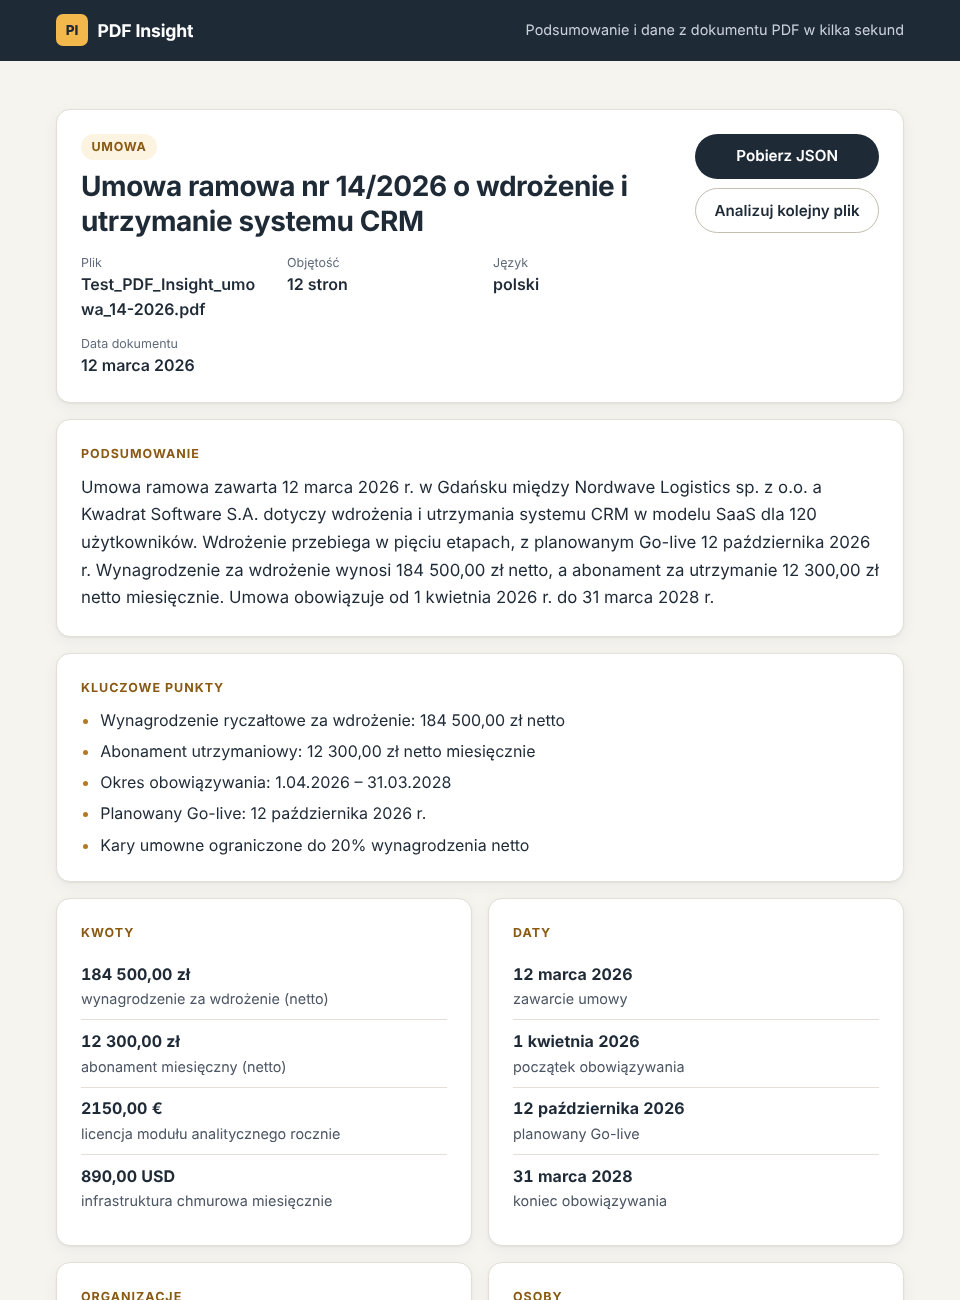
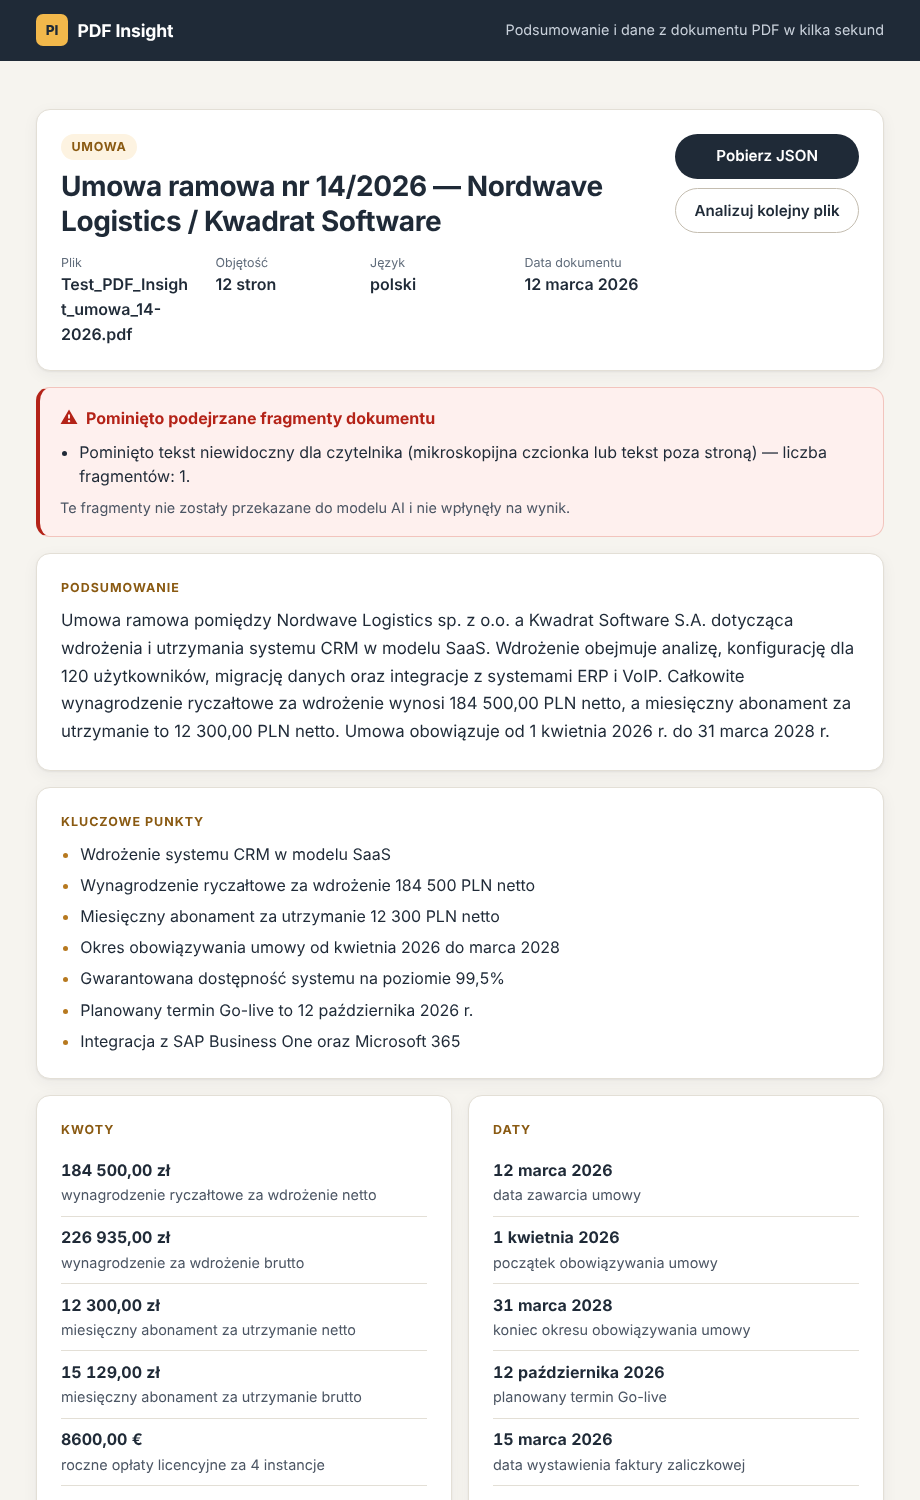
docs: update README for Gemma 4, diagnostics and real result screenshot
Claude-Session: https://claude.ai/code/session_016xiAd6eWj8VHEFAUkFP4LH

diff --git a/README.md b/README.md
@@ -28,7 +28,7 @@ w uporządkowane dane JSON (zadanie rekrutacyjne — Vibe Coder).
 Przeglądarka (GitHub Pages)              Cloudflare Worker                     Modele AI
 ┌──────────────────────────────┐ tekst  ┌────────────────────────────┐     ┌───────────────────┐
 │ walidacja pliku (PDF, 10 MB) │ ─────► │ CORS + kontrola Origin     │  1. │ Workers AI        │
-│ pdf.js → tekst + l. stron    │        │ limit żądań na IP          │ ──► │ Llama 3.3 70B     │
+│ pdf.js → tekst + l. stron    │        │ limit żądań na IP          │ ──► │ Gemma 4 26B       │
 │ filtr ukrytego tekstu        │        │ wycinanie poleceń dla AI   │     ├───────────────────┤
 │ Zod → widok → eksport .json  │ ◄───── │ pamięć podręczna (KV, 7 d) │  2. │ Groq gpt-oss-120b │
 │ historia w localStorage      │  JSON  │ prompt, walidacja, 1 retry │  3. │ Groq gpt-oss-20b  │
@@ -39,11 +39,14 @@ Przeglądarka (GitHub Pages)              Cloudflare Worker                     
 - **Frontend** — React 19 + TypeScript (strict) + Vite, hostowany na GitHub Pages
   (deploy przez GitHub Actions).
 - **Backend** — Cloudflare Worker (`worker/`), jedyne miejsce, gdzie znajduje się klucz API.
-- **AI** — łańcuch darmowych dostawców: **Cloudflare Workers AI** (`@cf/meta/llama-3.3-70b-instruct-fp8-fast`,
+- **AI** — łańcuch darmowych dostawców: **Cloudflare Workers AI** (`@cf/google/gemma-4-26b-a4b-it`,
   przez binding — bez klucza API), a gdy wyczerpie dzienny limit lub nie odpowiada — **Groq**
   (`openai/gpt-oss-120b`, potem `openai/gpt-oss-20b`; dowolne API zgodne z OpenAI Chat Completions).
 - **Pamięć podręczna** — Cloudflare KV: ten sam dokument drugi raz = natychmiastowy wynik bez
   zużywania limitów AI.
+- **Diagnostyka** — gdy analiza się nie uda, widok błędu ma zwijaną sekcję „Szczegóły techniczne”:
+  co zawiodło u którego dostawcy i po ilu sekundach (np. przekroczony czas, wyczerpany limit,
+  dokument za duży).
 
 ### Struktura
 
@@ -81,7 +84,7 @@ worker/src/     Cloudflare Worker: routing, CORS, prompt, łańcuch dostawców A
 8. **Łańcuch darmowych dostawców AI.** Każdy darmowy plan ma inne ograniczenie, więc Worker
    próbuje ich po kolei i przechodzi dalej przy wyczerpanym limicie, błędzie lub przekroczonym
    czasie. Limity się sumują, a demo działa dłużej bez opłat:
-   - **Cloudflare Workers AI** — 10 tys. „neuronów” dziennie (ok. 15–20 analiz), połączenie przez
+   - **Cloudflare Workers AI** — 10 tys. „neuronów” dziennie (ok. 80–90 analiz), połączenie przez
      binding, więc **nie ma klucza API, który mógłby wyciec**; dane nie są używane do trenowania;
    - **Groq** — szybki, ale darmowy plan ma 8 tys. tokenów na minutę, więc obsługuje tylko
      krótsze dokumenty (do ok. 10 tys. znaków); większych zapytań Worker tam nie wysyła wcale.
@@ -90,10 +93,17 @@ worker/src/     Cloudflare Worker: routing, CORS, prompt, łańcuch dostawców A
    z UE), darmowy Mistral (plan Free nie aktywuje kluczy API), SambaNova i OpenRouter
    (ok. 20–50 zapytań dziennie), Cerebras (wymaga karty).
 
-9. **Pamięć podręczna wyników.** Kluczem jest skrót SHA-256 oczyszczonego tekstu i wersji promptu;
-   wpis wygasa po 7 dniach. Najczęstszy scenariusz — wiele osób testuje ten sam przykładowy PDF —
-   kosztuje jedno wywołanie modelu. Nazwa pliku i liczba stron nie są zapisywane.
-10. **Brak routera.** Aplikacja ma jeden ekran ze stanami, więc problem routingu na GitHub Pages
+9. **Model: Gemma 4 26B zamiast Llama 3.3 70B.** Llama 70B nie mieściła się w limicie czasu
+   (analiza 12-stronicowej umowy przekraczała 25 s). Gemma 4 26B A4B to model MoE — w każdym kroku
+   pracuje tylko ok. 4 mld parametrów — więc jest wyraźnie szybsza i kilkukrotnie tańsza w limicie
+   dziennym. Dodatkowo: wyłączony tryb „myślenia” (`enable_thinking: false`; ewentualne „myśli”
+   w odpowiedzi są wycinane przed odczytem JSON) i zwięzła odpowiedź (maks. 1,5 tys. tokenów,
+   krótkie opisy, do 12 kwot i 10 dat). Analiza testowej umowy mieści się w wymaganych 30 s,
+   a ponowna analiza tego samego dokumentu (pamięć podręczna) jest natychmiastowa.
+10. **Pamięć podręczna wyników.** Kluczem jest skrót SHA-256 oczyszczonego tekstu i wersji promptu;
+    wpis wygasa po 7 dniach. Najczęstszy scenariusz — wiele osób testuje ten sam przykładowy PDF —
+    kosztuje jedno wywołanie modelu. Nazwa pliku i liczba stron nie są zapisywane.
+11. **Brak routera.** Aplikacja ma jeden ekran ze stanami, więc problem routingu na GitHub Pages
     (HashRouter / 404.html) w ogóle nie występuje.
 
 ## Bezpieczeństwo
@@ -199,7 +209,7 @@ zapytań), pamięć podręczną, CORS i walidację żądań Workera, historię w
 ## Znane ograniczenia
 
 - **Brak OCR (F-10)** — skany bez warstwy tekstowej dostają czytelny komunikat.
-- **Darmowe limity AI:** Workers AI to ok. 15–20 analiz dziennie (reset o 00:00 UTC), Groq
+- **Darmowe limity AI:** Workers AI to ok. 80–90 analiz dziennie (reset o 00:00 UTC), Groq
   obsługuje tylko krótsze dokumenty. Gdy Workers AI wyczerpie limit, dłuższy dokument (np. testowa
   12-stronicowa umowa) dostanie komunikat o limicie — chyba że był już analizowany i jest
   w pamięci podręcznej.
@@ -239,10 +249,18 @@ Zgodny z sekcją 04 briefu; dodatkowe pole `meta` (dozwolone — „pola można 
   "dates": [{ "date": "2026-10-01", "context": "termin płatności" }],
   "keywords": ["serwis", "SLA"],
   "meta": {
-    "model": "…",
-    "analyzedAt": "2026-11-09T15:30:00.000Z",
+    "model": "Workers AI / @cf/google/gemma-4-26b-a4b-it",
+    "provider": "Workers AI",
+    "analyzedAt": "2026-11-09T20:36:51.176Z",
+    "cached": false,
     "chunks": 1,
-    "truncated": false
+    "truncated": false,
+    "security": {
+      "hiddenFragmentsRemoved": 1,
+      "suspiciousFragmentsRemoved": 0,
+      "removedExcerpts": [],
+      "notices": ["Pominięto tekst niewidoczny dla czytelnika (…) — liczba fragmentów: 1."]
+    }
   }
 }
 ```
